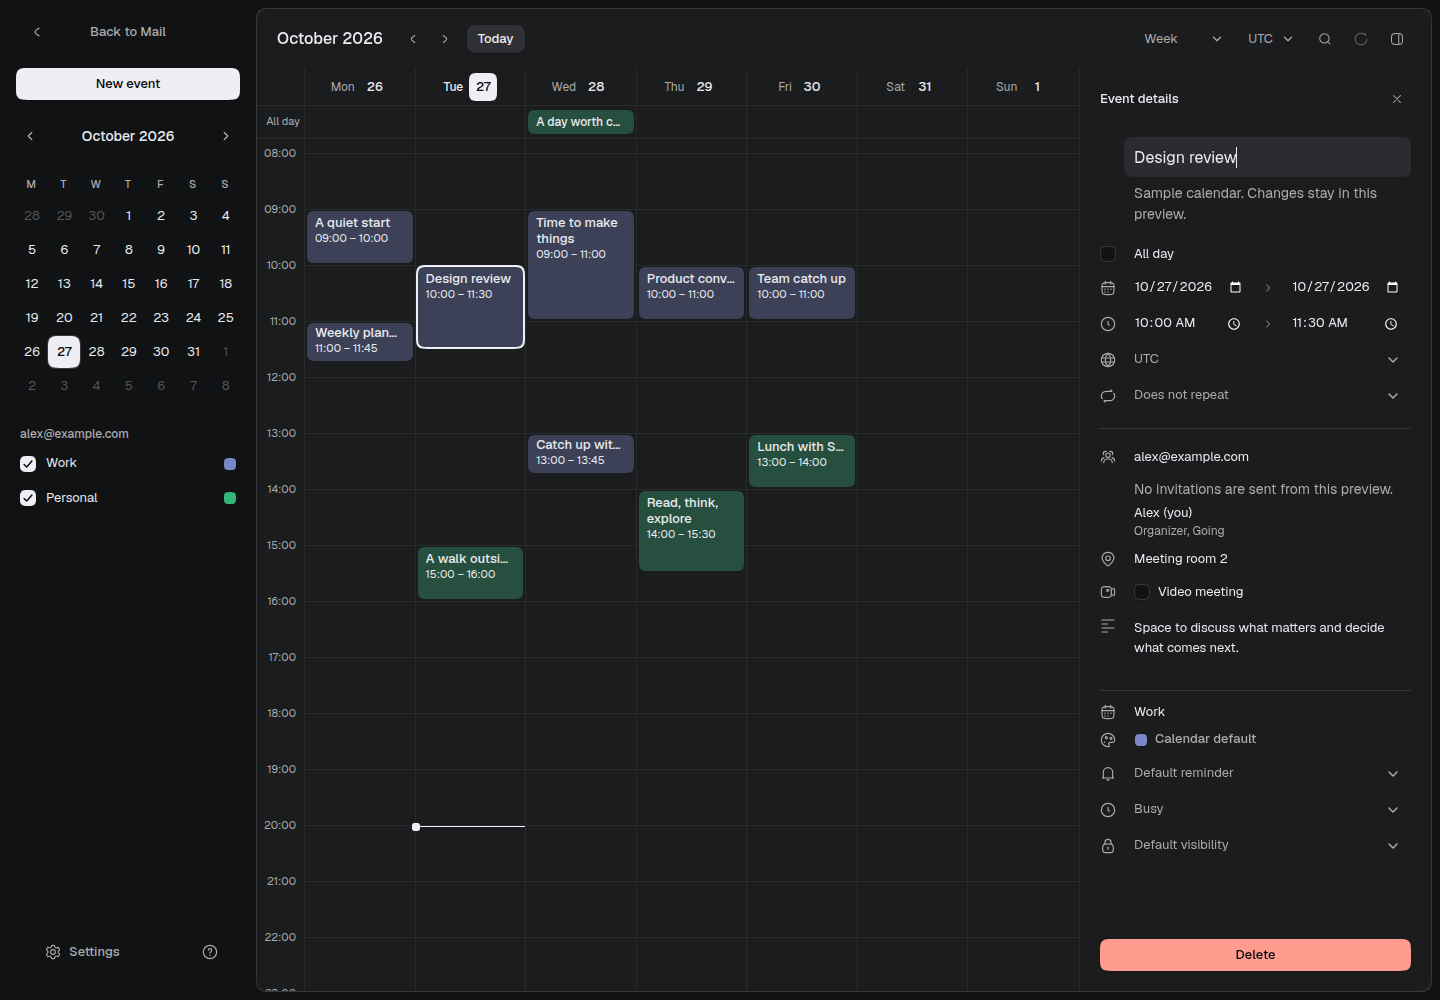
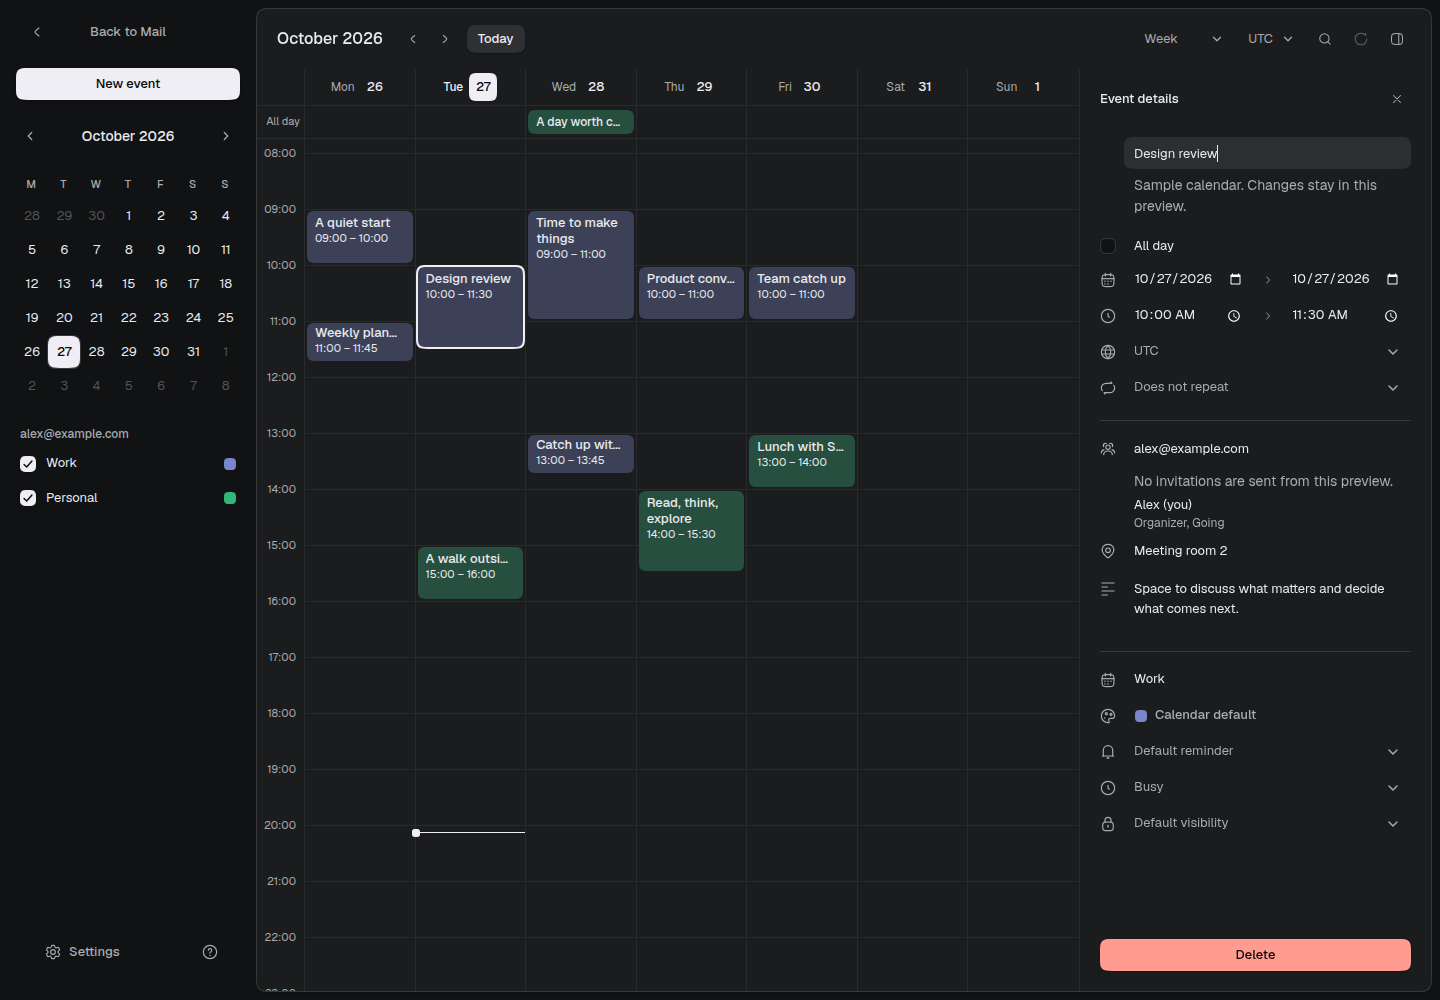
fix(calendar): compact event controls and preserve guest metadata

diff --git a/packages/app/src/features/calendar/components/calendar-event-editor.tsx b/packages/app/src/features/calendar/components/calendar-event-editor.tsx
@@ -13,7 +13,6 @@ import {
   SquareLock01Icon,
   TextAlignLeftIcon,
   UserGroupIcon,
-  Video01Icon,
 } from "@hugeicons/core-free-icons";
 import { getCalendarConnectionQueryKey } from "@quieter/app/lib/calendar-query";
 import { toastError } from "@quieter/app/lib/error-toast";
@@ -367,7 +366,6 @@ export const CalendarEventEditor = ({
               }}
               placeholder="Untitled event"
               required
-              size="lg"
               value={form.title}
             />
             {preview ||
@@ -431,7 +429,7 @@ export const CalendarEventEditor = ({
               </Checkbox>
               <span className="ml-2.5">All day</span>
             </label>
-            <div className="grid grid-cols-[auto_minmax(0,1fr)] items-start gap-x-2 gap-y-1 @min-[18rem]:grid-cols-[auto_minmax(0,1fr)_auto_minmax(0,1fr)]">
+            <div className="grid grid-cols-[1rem_minmax(0,1fr)] items-start gap-x-2 gap-y-1 @min-[18rem]:grid-cols-[1rem_minmax(0,1fr)_auto_minmax(0,1fr)]">
               <Icon className="mt-2" icon={Calendar03Icon} tone="muted" />
               <Field className="min-w-0">
                 <FieldLabel
@@ -555,7 +553,7 @@ export const CalendarEventEditor = ({
             </div>
             {form.allDay ? null : (
               <Field>
-                <div className="grid grid-cols-[auto_minmax(0,1fr)] items-center gap-x-2">
+                <div className="grid min-h-8 grid-cols-[1rem_minmax(0,1fr)] items-center gap-x-2">
                   <Icon icon={Globe02Icon} tone="muted" />
                   <FieldLabel
                     className="sr-only"
@@ -581,7 +579,7 @@ export const CalendarEventEditor = ({
             )}
             {isOccurrence ? null : (
               <Field>
-                <div className="grid grid-cols-[auto_minmax(0,1fr)] items-center gap-x-2">
+                <div className="grid min-h-8 grid-cols-[1rem_minmax(0,1fr)] items-center gap-x-2">
                   <Icon icon={RepeatIcon} tone="muted" />
                   <FieldLabel
                     className="sr-only"
@@ -650,13 +648,10 @@ export const CalendarEventEditor = ({
                       },
                     }));
                   }}
-                  placeholder="Add guests"
+                  placeholder="Guest emails, separated by commas"
                   value={form.attendees}
                 />
                 <FieldDescription className="ml-2.5">
-                  <span className="sr-only">
-                    Separate email addresses with commas.{" "}
-                  </span>
                   {preview
                     ? "No invitations are sent from this preview."
                     : "Saving sends invitations and event updates to guests."}
@@ -727,7 +722,7 @@ export const CalendarEventEditor = ({
               </Field>
             ) : null}
             <Field>
-              <div className="grid grid-cols-[auto_minmax(0,1fr)] items-center gap-x-2">
+              <div className="grid min-h-8 grid-cols-[1rem_minmax(0,1fr)] items-center gap-x-2">
                 <Icon icon={Location01Icon} tone="muted" />
                 <FieldLabel
                   className="sr-only"
@@ -753,54 +748,10 @@ export const CalendarEventEditor = ({
                 />
               </div>
             </Field>
-            {baseEvent?.meetingUrl ? (
-              <Button
-                fullWidth
-                nativeButton={false}
-                render={
-                  <a
-                    aria-label="Join video meeting"
-                    href={baseEvent.meetingUrl}
-                    rel="noreferrer"
-                    target="_blank"
-                  />
-                }
-              >
-                <Icon icon={Video01Icon} />
-                Join video meeting
-              </Button>
-            ) : null}
-            {baseEvent?.meetingPending === true ? (
-              <p className="ml-6 pl-2.5 text-caption text-muted-fg">
-                Your meeting link is being prepared.
-              </p>
-            ) : null}
-            {selectedCalendar?.supportsMeetings === true ? (
-              <div className="flex items-center gap-2 py-1">
-                <Icon icon={Video01Icon} tone="muted" />
-                <label
-                  className="ml-2.5 flex cursor-pointer items-center gap-2 text-body-sm"
-                  htmlFor="calendar-event-add-meeting"
-                >
-                  <Checkbox
-                    disabled={pending}
-                    id="calendar-event-add-meeting"
-                    checked={form.addMeeting}
-                    onCheckedChange={(checked) => {
-                      store.setState((current) => ({
-                        ...current,
-                        values: { ...current.values, addMeeting: checked },
-                      }));
-                    }}
-                  >
-                    <CheckboxIndicator />
-                  </Checkbox>
-                  Video meeting
-                </label>
-              </div>
-            ) : null}
             <div className="flex items-start gap-2">
-              <Icon className="mt-2" icon={TextAlignLeftIcon} tone="muted" />
+              <span className="flex h-9 items-center">
+                <Icon icon={TextAlignLeftIcon} tone="muted" />
+              </span>
               <Field className="ml-1.5">
                 <FieldLabel
                   className="sr-only"
@@ -829,7 +780,7 @@ export const CalendarEventEditor = ({
           </div>
           <div className="space-y-1 border-t border-border pt-3">
             <Field>
-              <div className="grid grid-cols-[auto_minmax(0,1fr)] items-center gap-x-2">
+              <div className="grid min-h-8 grid-cols-[1rem_minmax(0,1fr)] items-center gap-x-2">
                 <Icon icon={Calendar03Icon} tone="muted" />
                 <FieldLabel
                   className="sr-only"
@@ -870,7 +821,7 @@ export const CalendarEventEditor = ({
               </div>
             </Field>
             <Field>
-              <div className="grid grid-cols-[auto_minmax(0,1fr)] items-center gap-x-2">
+              <div className="grid min-h-8 grid-cols-[1rem_minmax(0,1fr)] items-center gap-x-2">
                 <Icon icon={PaintBoardIcon} tone="muted" />
                 <FieldLabel className="sr-only">Event color</FieldLabel>
                 <Popover>
@@ -941,7 +892,7 @@ export const CalendarEventEditor = ({
               </div>
             </Field>
             <Field>
-              <div className="grid grid-cols-[auto_minmax(0,1fr)] items-center gap-x-2">
+              <div className="grid min-h-8 grid-cols-[1rem_minmax(0,1fr)] items-center gap-x-2">
                 <Icon icon={Notification02Icon} tone="muted" />
                 <FieldLabel
                   className="sr-only"
@@ -1054,7 +1005,7 @@ export const CalendarEventEditor = ({
             ) : null}
             <div className="space-y-1">
               <Field>
-                <div className="grid grid-cols-[auto_minmax(0,1fr)] items-center gap-x-2">
+                <div className="grid min-h-8 grid-cols-[1rem_minmax(0,1fr)] items-center gap-x-2">
                   <Icon icon={Clock01Icon} tone="muted" />
                   <FieldLabel
                     className="sr-only"
@@ -1091,7 +1042,7 @@ export const CalendarEventEditor = ({
                 </div>
               </Field>
               <Field>
-                <div className="grid grid-cols-[auto_minmax(0,1fr)] items-center gap-x-2">
+                <div className="grid min-h-8 grid-cols-[1rem_minmax(0,1fr)] items-center gap-x-2">
                   <Icon icon={SquareLock01Icon} tone="muted" />
                   <FieldLabel
                     className="sr-only"

diff --git a/packages/app/src/features/calendar/components/calendar-event-details.tsx b/packages/app/src/features/calendar/components/calendar-event-details.tsx
@@ -56,7 +56,7 @@ export const CalendarEventDetails = ({
   return (
     <div className="flex min-h-0 flex-1 flex-col">
       <div className="flex items-center gap-2 px-5 py-4">
-        <Text as="h2" className="flex-1" size="lg" truncate weight="medium">
+        <Text as="h2" className="flex-1" size="sm" truncate weight="medium">
           Event details
         </Text>
         <IconButtonTooltip label="Close event details">
@@ -75,7 +75,7 @@ export const CalendarEventDetails = ({
           <Pill size="xs" tone="neutral">
             {calendarName}
           </Pill>
-          <Text as="h3" size="lg" weight="medium">
+          <Text as="h3" size="sm" weight="medium">
             {event.title || "Untitled event"}
           </Text>
           {event.permissions.edit ? null : (
@@ -123,27 +123,6 @@ export const CalendarEventDetails = ({
             </Pill>
           ) : null}
         </div>
-        {event.meetingUrl ? (
-          <Button
-            fullWidth
-            nativeButton={false}
-            render={
-              <a
-                aria-label="Join video meeting"
-                href={event.meetingUrl}
-                rel="noreferrer"
-                target="_blank"
-              />
-            }
-          >
-            Join video meeting
-          </Button>
-        ) : null}
-        {!event.meetingUrl && event.meetingPending ? (
-          <p className="text-body-sm text-muted-fg">
-            Your meeting link is being prepared. Refresh in a moment.
-          </p>
-        ) : null}
         {event.location ? (
           <div className="space-y-1">
             <h4 className="text-caption text-muted-fg">Location</h4>

diff --git a/packages/app/src/features/calendar/domain/calendar-event-form.test.ts b/packages/app/src/features/calendar/domain/calendar-event-form.test.ts
@@ -107,6 +107,26 @@ describe("calendar event form time", () => {
 });
 
 describe("calendar event edit changes", () => {
+  it("deduplicates guest email casing without changing saved guest metadata", () => {
+    const form = createCalendarEventForm(
+      { event: recurringMeeting, kind: "edit", scope: "occurrence" },
+      "Europe/Berlin"
+    );
+    const draft = parseCalendarEventForm(
+      { ...form, attendees: "GUEST@example.com; guest@EXAMPLE.com" },
+      recurringMeeting
+    );
+    expect(draft.attendees).toHaveLength(1);
+    expect(draft.attendees[0]).toMatchObject({
+      email: recurringMeeting.attendees[0]?.email,
+      name: "Guest",
+      optional: true,
+    });
+    expect(
+      createCalendarEventChanges({ draft, original: recurringMeeting })
+    ).toBeUndefined();
+  });
+
   it("renames a recurring meeting without changing its time, guests or inherited settings", () => {
     const form = createCalendarEventForm(
       { event: recurringMeeting, kind: "edit", scope: "occurrence" },

diff --git a/packages/app/src/features/calendar/domain/calendar-event-form.ts b/packages/app/src/features/calendar/domain/calendar-event-form.ts
@@ -170,11 +170,23 @@ export const parseCalendarEventForm = (
     .split(/[,;\n]/u)
     .map((email) => email.trim())
     .filter(Boolean);
-  const attendees = [...new Set(guests)].map((email) => {
+  const seenEmails = new Set<string>();
+  const attendees = guests.flatMap((email) => {
+    const normalizedEmail = email.toLowerCase();
+    if (seenEmails.has(normalizedEmail)) {
+      return [];
+    }
+    seenEmails.add(normalizedEmail);
     const guest = original?.attendees.find(
-      (attendee) => attendee.email === email
+      (attendee) => attendee.email.toLowerCase() === normalizedEmail
     );
-    return { email, name: guest?.name, optional: guest?.optional ?? false };
+    return [
+      {
+        email: guest?.email ?? email,
+        name: guest?.name,
+        optional: guest?.optional ?? false,
+      },
+    ];
   });
   let reminders: CalendarEventDraft["reminders"] = { kind: "default" };
   if (form.reminderKind === "none") {
